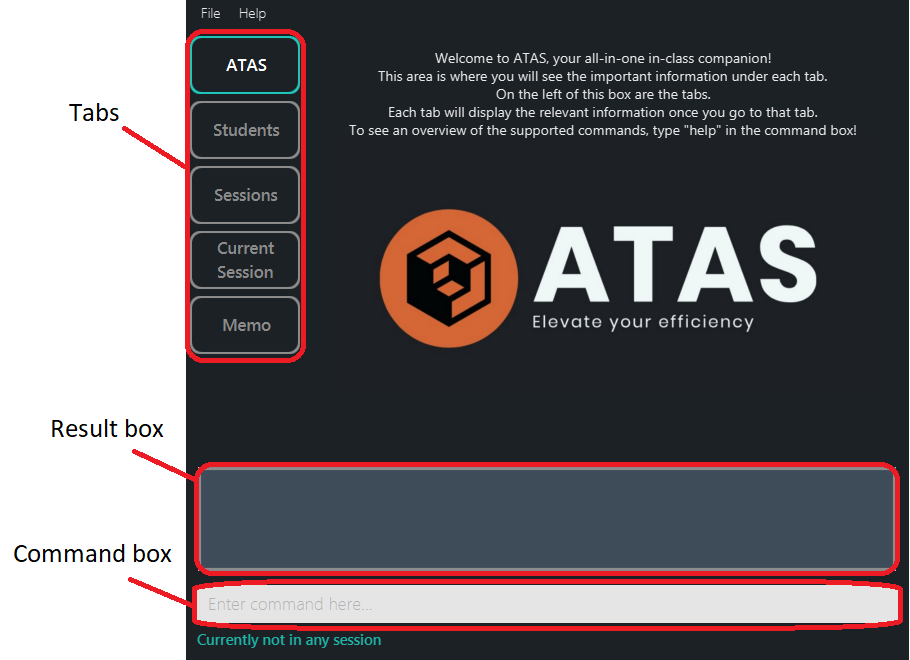
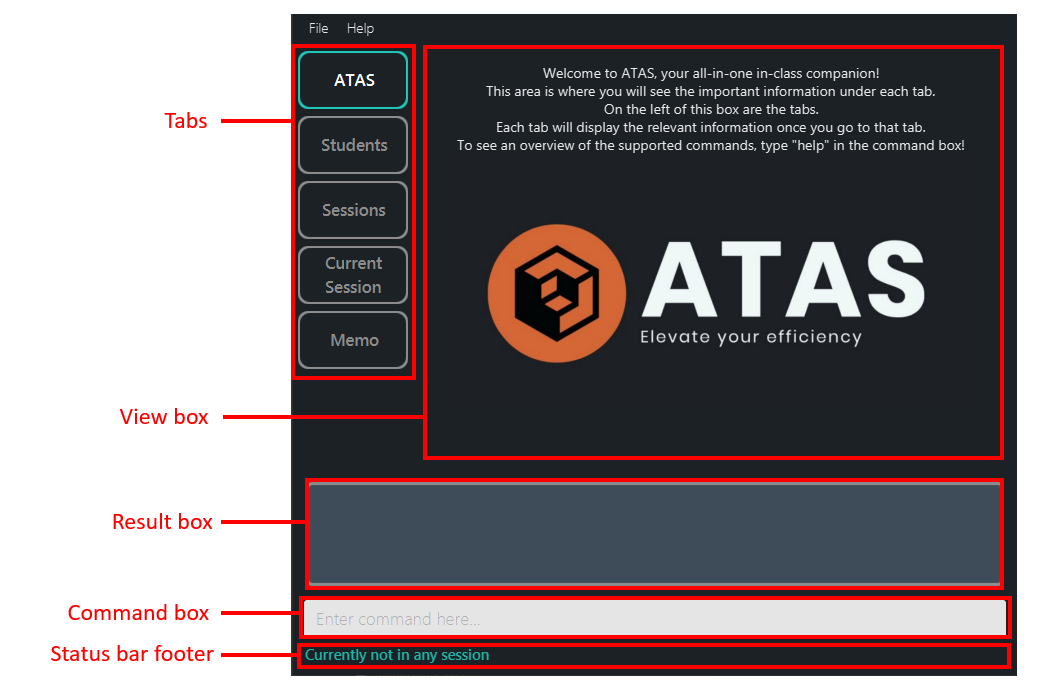
Update pictures

diff --git a/docs/DeveloperGuide.md b/docs/DeveloperGuide.md
@@ -80,7 +80,7 @@ For example, the `Logic` component (see the class diagram given below) defines i
 
 The *Sequence Diagram* below shows how the components interact with each other for the scenario where the user issues the command `addses s/Tutorial 1 d/10/10/2020`.
 
-<img src="images/developer-guide/3.1.3-ArchitectureSequenceDiagram.png" width="650" />
+[!Achitecture sequence diagram](images/developer-guide/3.1.3-ArchitectureSequenceDiagram.png)
 <p align="center"> <sub> <b>Figure 3.1.3</b>: Architecture sequence diagram </sub> </p> 
 
 The sections below give more details of each component.
@@ -1250,7 +1250,7 @@ Use case ends.
 ### 10.5. Glossary
 
 * **Mainstream OS**: Windows, Linux, Unix, OS-X
-* **Matriculation number**: A unique alphanumeric number attributed to each NUS student. Follows the format A0123456X, where each digit can be from 0-9 and the last letter can be any alphabet A-Z
+* **Matriculation number**: A unique alphanumeric number attributed to each NUS student. Follows the format A0123456X, where each digit can be from 0-9 and the last letter can be any alphabet A-Z.
 * **Tag**: A word or phrase the user labels the student as.
 
 { end of `requirements#glossary` written by: Marcus Tan Wei }
@@ -1347,13 +1347,13 @@ testers are expected to do more *exploratory* testing.
   1. Prerequisites: List all students using the `liststu` command. Multiple (but less than 100) students in the list.
 
   1. Test case: `deletestu 1`<br>
-     Expected: First contact is deleted from the list. Details of the deleted contact shown in the ResultDisplay.
+     Expected: Confirmation prompt to delete the first student from the list. Message of confirmation prompt is shown in the ResultDisplay.
 
   1. Test case: `deletestu 0`<br>
-     Expected: No student is deleted. Error details shown in the ResultDisplay. 
+     Expected: No student is deleted. Invalid index error details shown in the ResultDisplay. 
 
   1. Test case: `deletestu 101`<br>
-     Expected: No student is deleted. Error details shown in the ResultDisplay.
+     Expected: No student is deleted. Invalid index error details shown in the ResultDisplay.
      
   1. Other incorrect delete commands to try: `deletestu`, `deletestu x`, `...` (where x is larger than the list size)<br>
      Expected: Similar to previous.
@@ -1364,13 +1364,13 @@ testers are expected to do more *exploratory* testing.
    One or more (but less than 100) student is shown in the StudentListPanel.
    
    1. Test case: `deletestu 1`<br>
-      Expected: First contact is deleted from the list. Details of the deleted contact shown in the ResultDisplay.
+      Expected: Confirmation prompt to delete the first student from the list. Message of confirmation prompt is shown in the ResultDisplay.
    
    1. Test case: `deletestu 0`<br>
-      Expected: No student is deleted. Error details shown in the ResultDisplay. 
+      Expected: No student is deleted. Invalid index error details shown in the ResultDisplay. 
    
    1. Test case: `deletestu 101`<br>
-      Expected: No student is deleted. Error details shown in the ResultDisplay.
+      Expected: No student is deleted. Invalid index error details shown in the ResultDisplay.
       
    1. Other incorrect delete commands to try: `deletestu`, `deletestu x`, `...` (where x is larger than the list size)<br>
       Expected: Similar to previous.

diff --git a/docs/UserGuide.md b/docs/UserGuide.md
@@ -72,14 +72,17 @@ Specifically, **ATAS** allows you to keep track of four different aspects (see [
 ### 1.3. Preview
 
 The following is the GUI of our application:
-    ![UiPreview](images/user-guide/1.3.1-UiPreview.png)
-    <p align="center"> <sub> <b>Figure 1.3.1</b>: UI Preview </sub> </p>
+
+   ![UiPreview](images/user-guide/1.3.1-UiPreview.png)
+   <p align="center"> <sub> <b>Figure 1.3.1</b>: UI Preview </sub> </p>
     
 
 GUI Components:
    1. **Command box**: where you enter your commands.
-   1. **Result box**: where the result of a command is shown. It can show a success message or a failure message if something wrong happens.
+   1. **Result box**: where the result of a command will be shown. It can show a success message, or a failure message if something wrong happens.
+   1. **Status bar footer**: shows which session you are currently in.
    1. **Tabs**: shows what item type you are viewing.
+   1. **View box**: where the details of the items will be shown.
 
 { end of `introduction#preview` written by: Marcus Tan Wei }
 
@@ -157,13 +160,14 @@ For the good majority of visual learners, we figured to present information in a
 
 4. Double-click the file to start the app. The GUI similar to the below image should appear in a few seconds. Note how the app contains some sample data.<br>
    ![StartPage](images/StartPage.png)
+   <p align="center"> <sub> <b>Figure 3.1</b>: Example of start page </sub> </p>
 
 5. Type the command in the command box and press Enter to execute it. e.g. typing **`help`** and pressing Enter will open the help window.<br>
    Some example commands you can try:
 
    * **`liststu`** : Lists out all the students.
 
-   * **`addstu n/John Cena m/A0123456X e/thechamp@u.nus.edu`** : Adds a student named `John Cena` to the student list.
+   * **`addstu n/Jay Chou m/A0123456X e/jaychou@u.nus.edu`** : Adds a student named `Jay Chou` to the student list.
 
    * **`deleteses 3`** : Deletes the 3rd session shown in the current session list.
    

diff --git a/docs/index.md b/docs/index.md
@@ -6,7 +6,11 @@ title: ATAS
 [![CI Status](https://github.com/AY2021S1-CS2103T-W16-4/tp/workflows/Java%20CI/badge.svg)](https://github.com/AY2021S1-CS2103T-W16-4/tp/actions)
 [![codecov](https://codecov.io/gh/AY2021S1-CS2103T-W16-4/tp/branch/master/graph/badge.svg)](https://codecov.io/gh/AY2021S1-CS2103T-W16-4/tp)
 
+![Ui](images/StartPage.png)
+<p align="center"> <sub> <b>Figure 1</b>: Start page </sub> </p>
+
 ![Ui](images/Ui.png)
+<p align="center"> <sub> <b>Figure 2</b>: Ui preview of students tab </sub> </p>
 
 **Addendum for Teaching Assistants (ATAS)** is a desktop application that aims to *elevate* user's efficiency and make their experience of handling administrative tasks in classes as seamless as possible. It has a GUI but most of the user interactions happen using a CLI (Command Line Interface).
 
